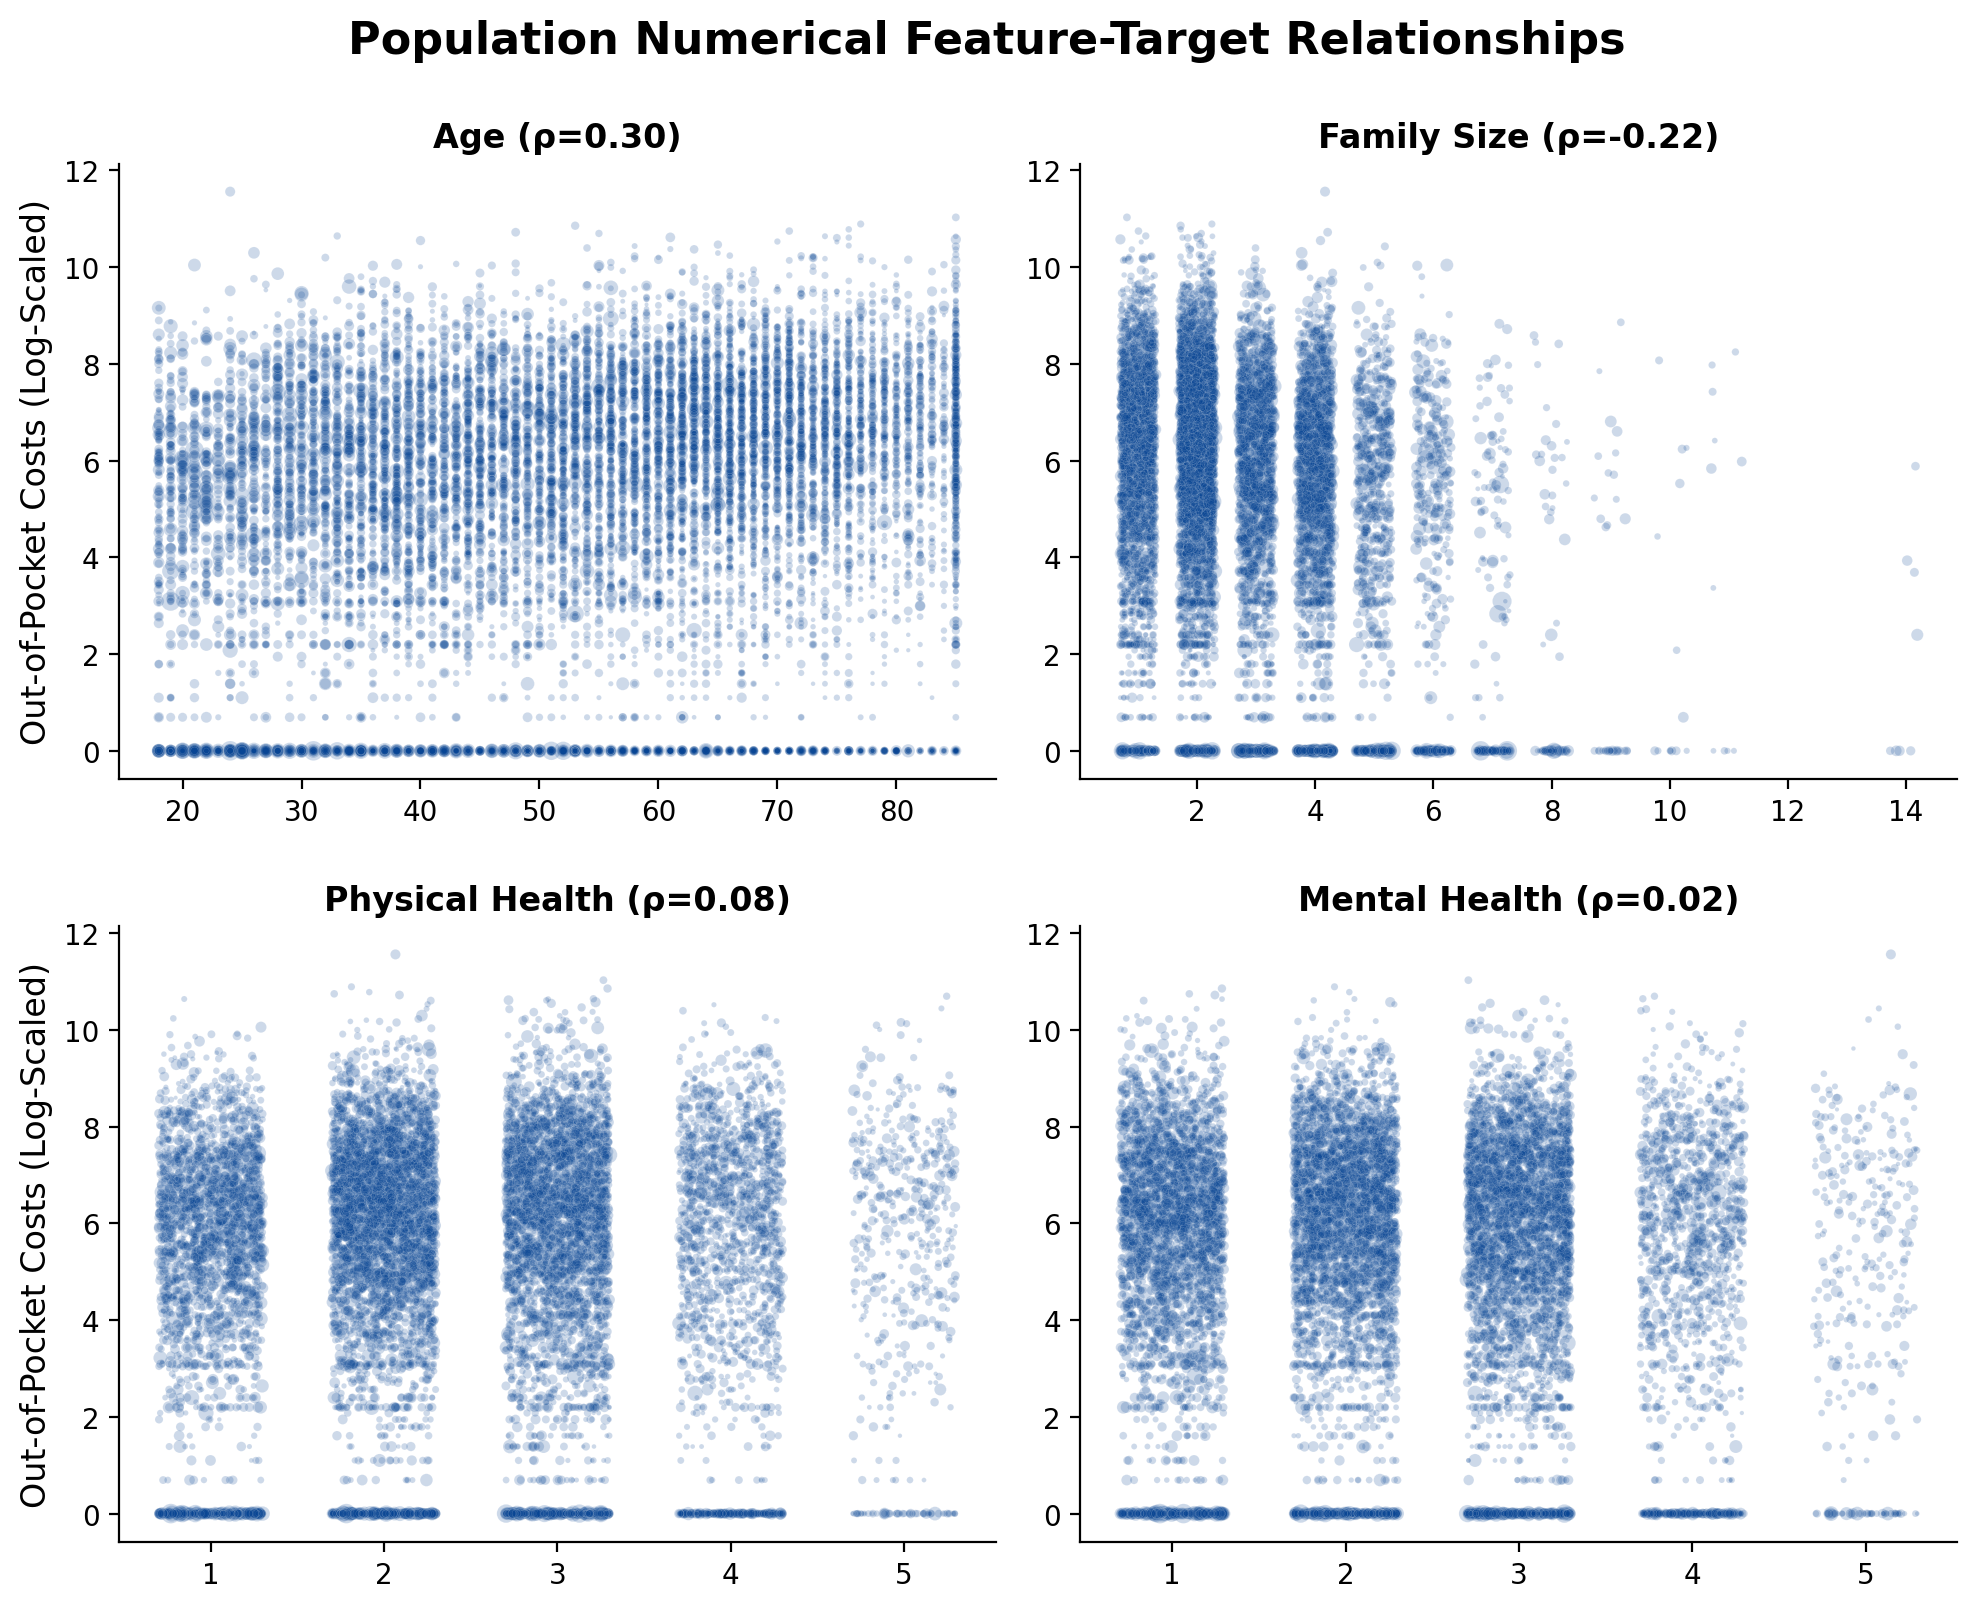
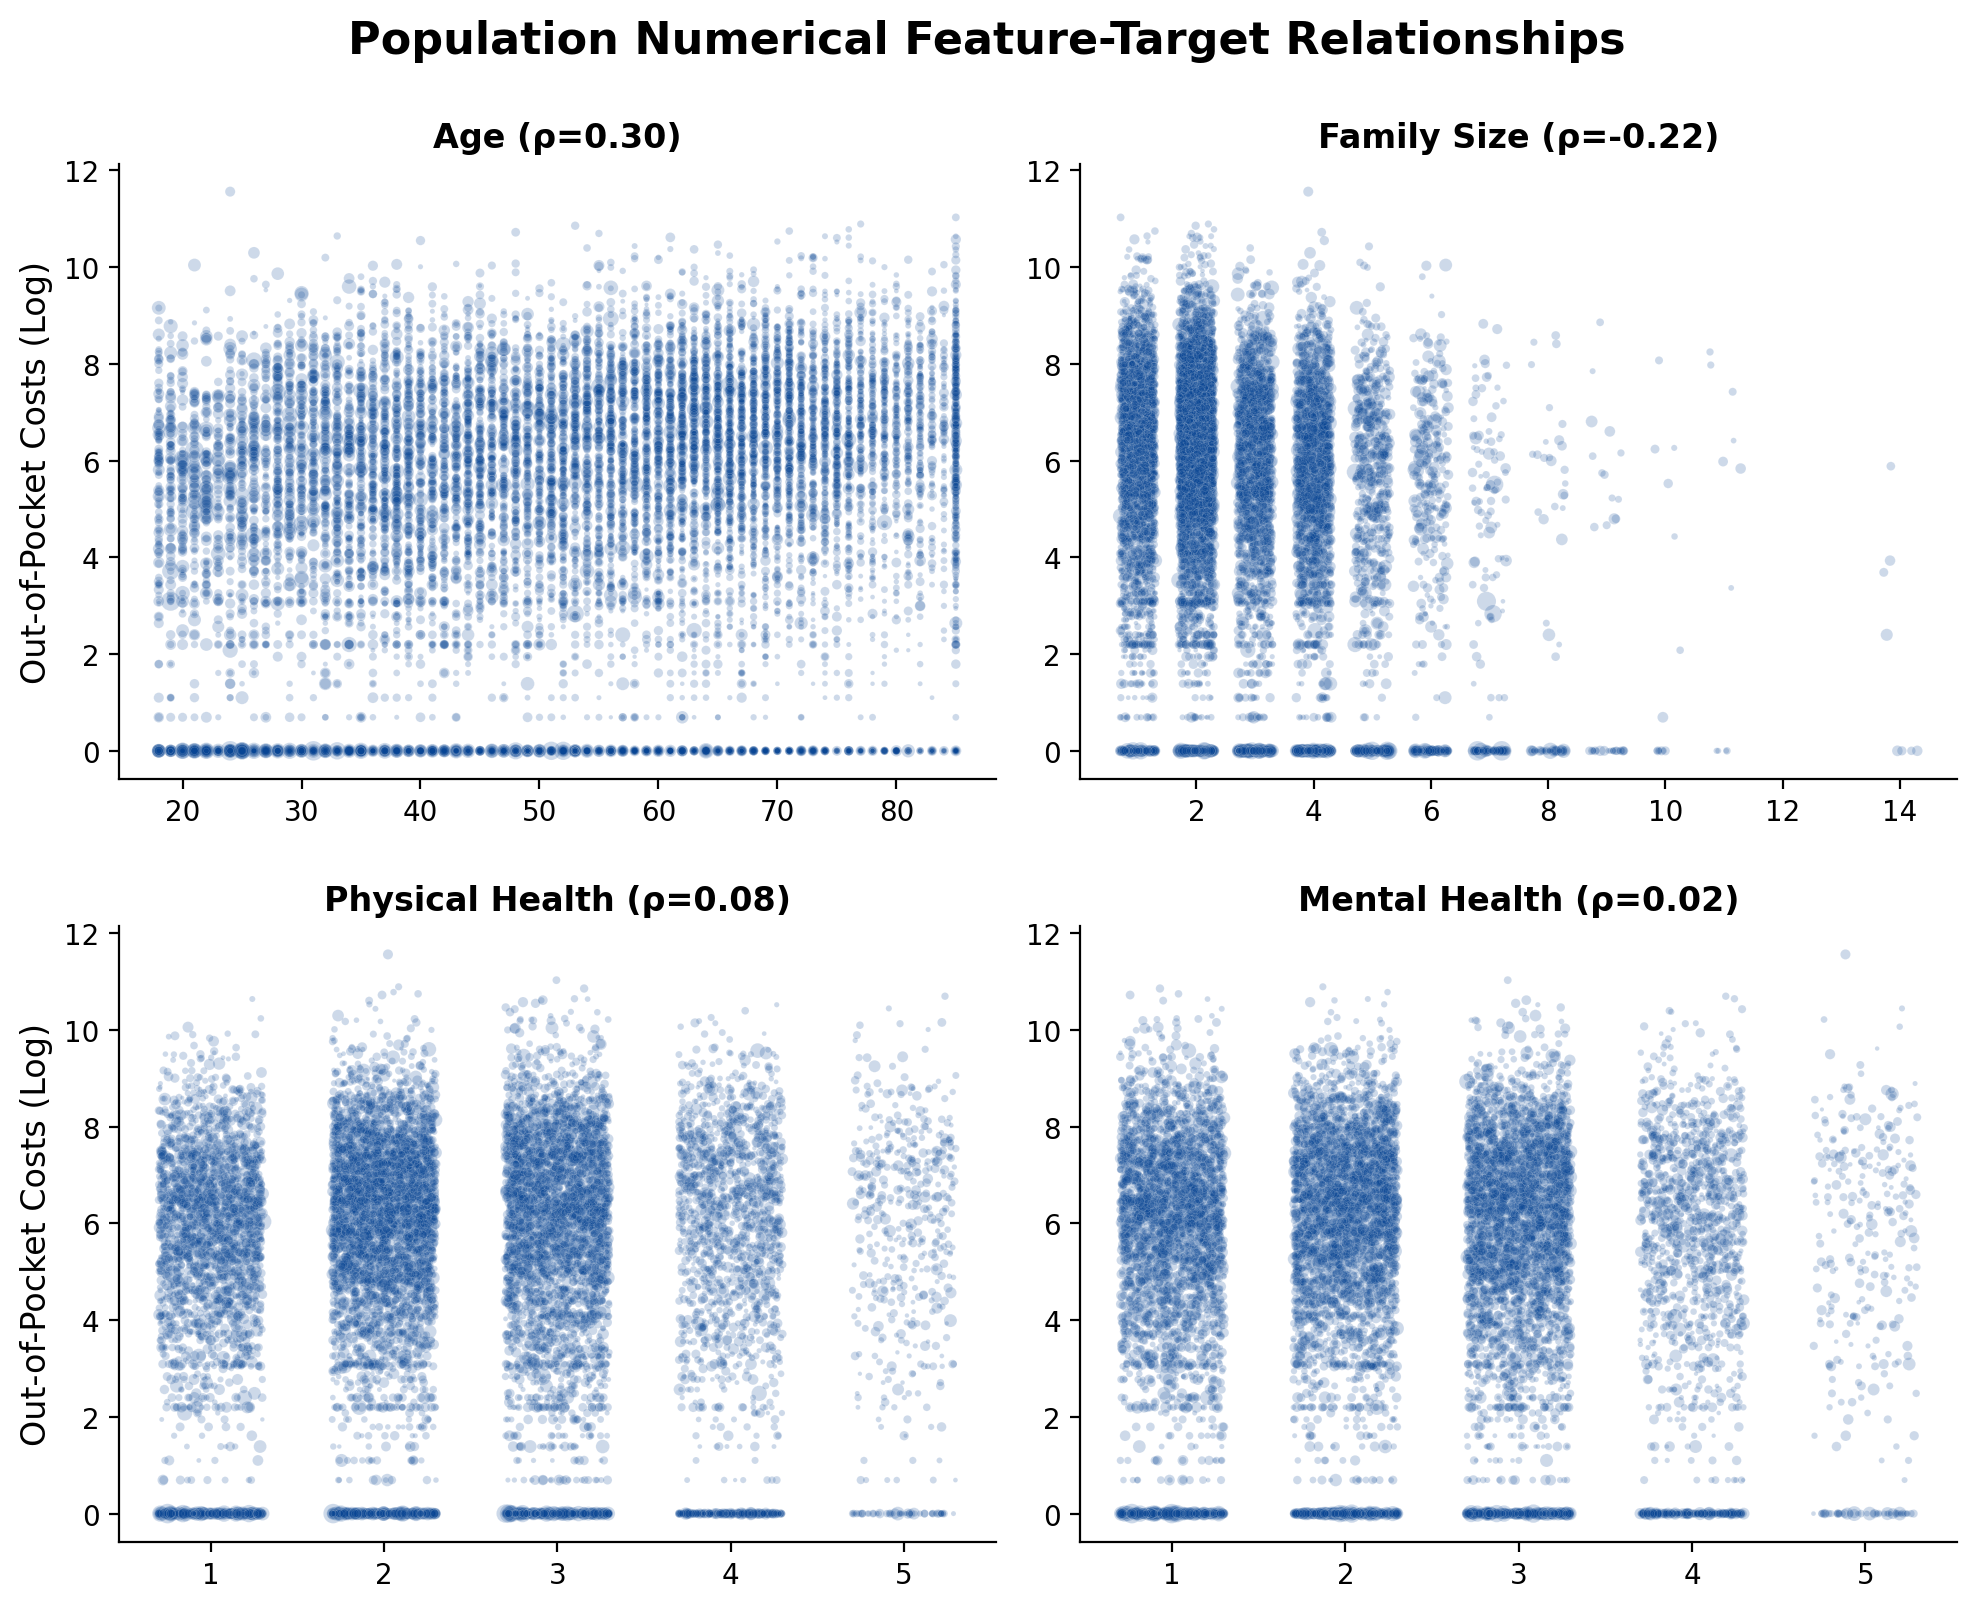
style(eda): shorten log-scaled to log in y label in all feature-target relationship plots

diff --git a/notebooks/medical_cost_prediction.py b/notebooks/medical_cost_prediction.py
@@ -1649,7 +1649,7 @@ def plot_numerical_feature_target_relationships(df, features, target, log_scale=
     if log_scale:
         y_col = f"{target}_LOG"
         plot_df[y_col] = np.log1p(plot_df[target])
-        y_label = "Out-of-Pocket Costs (Log-Scaled)"
+        y_label = "Out-of-Pocket Costs (Log)"
     else:
         y_label = "Out-of-Pocket Costs"
 
@@ -1777,7 +1777,7 @@ def plot_categorical_feature_target_relationships(df, nominal_features, ordinal_
     if log_scale:
         y_col = f"{target}_LOG"
         plot_df[y_col] = np.log1p(plot_df[target])
-        y_label = "Out-of-Pocket Costs (Log-Scaled)"
+        y_label = "Out-of-Pocket Costs (Log)"
     else:
         y_label = "Out-of-Pocket Costs"
 
@@ -1950,7 +1950,7 @@ def plot_binary_feature_target_relationships(df, features, target, plot_type="bo
     n_cols = 4
     n_rows = math.ceil(n_plots / n_cols)
     
-    fig, axes = plt.subplots(n_rows, n_cols, figsize=(n_cols * 2.5, n_rows * 3))
+    fig, axes = plt.subplots(n_rows, n_cols, figsize=(n_cols * 2.5, n_rows * 2.5))
     axes_flat = axes.flatten()
 
     # Create DataFrame for plotting
@@ -1972,7 +1972,7 @@ def plot_binary_feature_target_relationships(df, features, target, plot_type="bo
     if log_scale:
         y_col = f"{target}_LOG"
         plot_df[y_col] = np.log1p(plot_df[target])
-        y_label = "Out-of-Pocket Costs (Log-Scaled)"
+        y_label = "Out-of-Pocket Costs (Log)"
     else:
         y_label = "Out-of-Pocket Costs"
 
